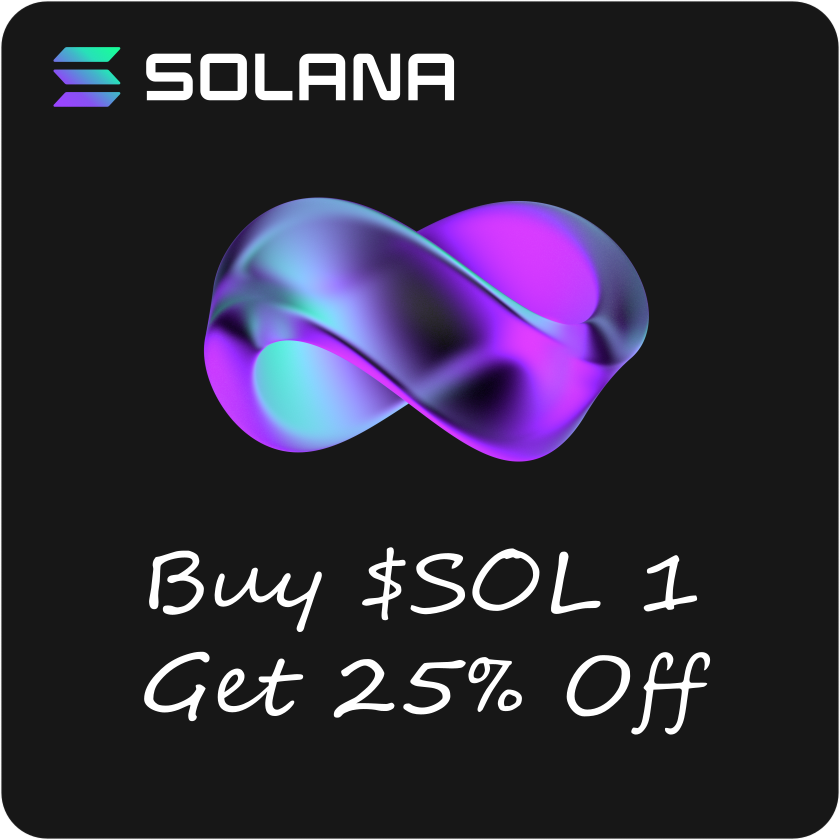
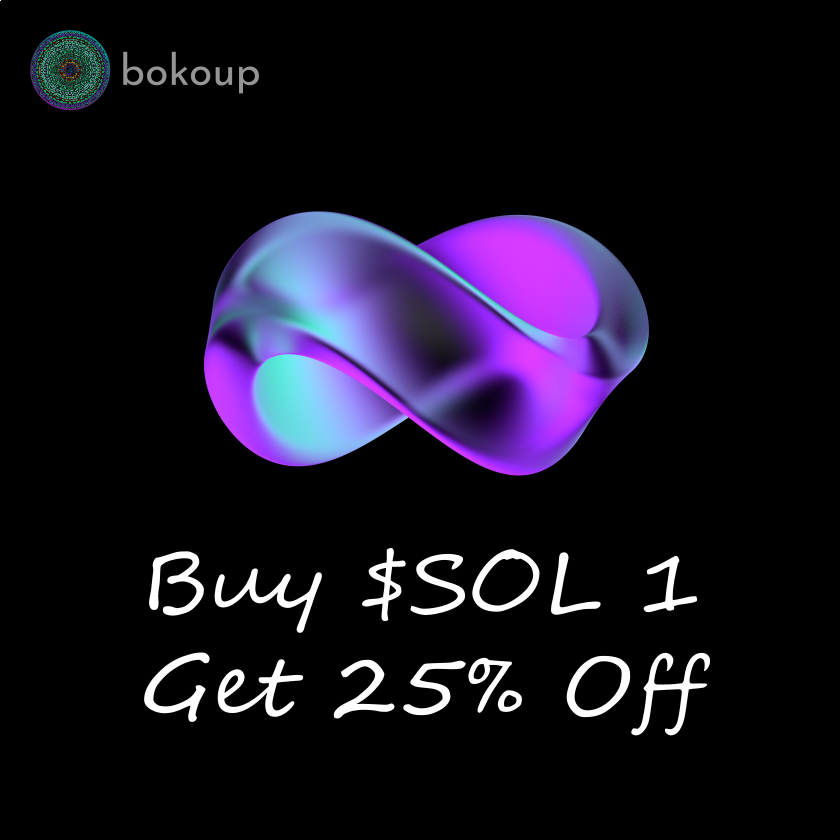
demo app mint tokens

diff --git a/token-metadata/js/test/promo.spec.ts b/token-metadata/js/test/promo.spec.ts
@@ -6,7 +6,7 @@ import chaiAsPromised = require('chai-as-promised');
 chai.use(chaiAsPromised);
 const expect = chai.expect;
 import * as dotenv from 'dotenv';
-import path from "path";
+import path from 'path';
 dotenv.config({ path: path.resolve(__dirname, '../../../demo/.env') });
 
 describe('promo', () => {
@@ -14,10 +14,14 @@ describe('promo', () => {
   // Configure the client to use the local cluster.
   anchor.setProvider(provider);
   const tokenMetadataProgram = new TokenMetadataProgram(provider);
-  const promoOwner = Keypair.fromSecretKey(new Uint8Array(JSON.parse(process.env.REACT_APP_PROMO_OWNER_KEYPAIR!)));
-  const platform = Keypair.fromSecretKey(new Uint8Array(JSON.parse(process.env.REACT_APP_PLATFORM_KEYPAIR!)));
-  console.log("promoOwner: ", promoOwner.publicKey.toString());
-  console.log("platform: ", platform.publicKey.toString());
+  const promoOwner = Keypair.fromSecretKey(
+    new Uint8Array(JSON.parse(process.env.REACT_APP_PROMO_OWNER_KEYPAIR!)),
+  );
+  const platform = Keypair.fromSecretKey(
+    new Uint8Array(JSON.parse(process.env.REACT_APP_PLATFORM_KEYPAIR!)),
+  );
+  console.log('promoOwner: ', promoOwner.publicKey.toString());
+  console.log('platform: ', platform.publicKey.toString());
 
   let adminSettings: PublicKey;
   let adminSettingsAccount: AdminSettings;
@@ -61,53 +65,65 @@ describe('promo', () => {
     );
   });
 
-  it('Creates a promo', async () => {
-    const metadataData: DataV2 = {
+  it('Creates two promos', async () => {
+    const metadataData1: DataV2 = {
       name: 'Promo 1',
       symbol: 'P1',
-      uri: 'https://arweave.net/TPXbiDBtyjHRgMqzo31AoJktNSoZuz_Q14itlMZy_f4',
+      uri: 'https://arweave.net/xBvsyd4Y1z_LZS-WmjikbING1DApVWEfWHRQ2lym0GE',
       sellerFeeBasisPoints: 0,
       creators: null,
       collection: null,
       uses: null,
     };
 
-    const platformStartAccountInfo =
-      await tokenMetadataProgram.program.provider.connection.getAccountInfo(
+    const metadataData2: DataV2 = {
+      name: 'Promo 2',
+      symbol: 'P2',
+      uri: 'https://arweave.net/jCbvPYBPEbJbc4_VBrnWm5X1-_eoSA2XOn96OngRtew',
+      sellerFeeBasisPoints: 0,
+      creators: null,
+      collection: null,
+      uses: null,
+    };
+
+    for (const metadataData of [metadataData1, metadataData2] as DataV2[]) {
+      const platformStartAccountInfo =
+        await tokenMetadataProgram.program.provider.connection.getAccountInfo(
+          adminSettingsAccount.platform,
+        );
+
+      const maxMint = 1_000;
+      const maxRedeem = 500;
+      const expiry = new Date(Date.now() + 1000 * 60 * 60 * 24 * 10);
+
+      promo = await tokenMetadataProgram.createPromo(
         adminSettingsAccount.platform,
+        metadataData,
+        true,
+        maxMint,
+        maxRedeem,
+        expiry,
+        promoOwner,
       );
 
-    const maxMint = 1_000;
-    const maxRedeem = 1;
-    const expiry = new Date(Date.now() + 1000 * 60 * 60 * 24 * 10);
+      promoAccount = (await tokenMetadataProgram.program.account.promo.fetch(promo)) as Promo;
 
-    promo = await tokenMetadataProgram.createPromo(
-      adminSettingsAccount.platform,
-      metadataData,
-      true,
-      maxMint,
-      maxRedeem,
-      expiry,
-      promoOwner,
-    );
+      promoExtended = await tokenMetadataProgram.getPromoExtended({
+        publicKey: promo,
+        ...promoAccount,
+      });
+      console.log('promoExtended: ', promoExtended);
 
-    promoAccount = (await tokenMetadataProgram.program.account.promo.fetch(promo)) as Promo;
-
-    promoExtended = await tokenMetadataProgram.getPromoExtended({
-      publicKey: promo,
-      ...promoAccount,
-    });
-    console.log('promoExtended: ', promoExtended);
-
-    const platformAccountInfo =
-      await tokenMetadataProgram.program.provider.connection.getAccountInfo(
-        adminSettingsAccount.platform,
-      );
-    if (platformStartAccountInfo !== null && platformAccountInfo !== null) {
-      expect(platformAccountInfo.lamports).to.equal(
-        platformStartAccountInfo.lamports + adminSettingsAccount.createPromoLamports.toNumber(),
-        'Platform lamports incorrect.',
-      );
+      const platformAccountInfo =
+        await tokenMetadataProgram.program.provider.connection.getAccountInfo(
+          adminSettingsAccount.platform,
+        );
+      if (platformStartAccountInfo !== null && platformAccountInfo !== null) {
+        expect(platformAccountInfo.lamports).to.equal(
+          platformStartAccountInfo.lamports + adminSettingsAccount.createPromoLamports.toNumber(),
+          'Platform lamports incorrect.',
+        );
+      }
     }
   });
 

diff --git a/demo/src/App.tsx b/demo/src/App.tsx
@@ -3,6 +3,7 @@ import { Theme } from './Theme';
 import { WalletContext } from './components/Wallet';
 import DisconnectIcon from '@mui/icons-material/LinkOff';
 import Toolbar from '@mui/material/Toolbar';
+import Box from '@mui/material/Box';
 import Button from '@mui/material/Button';
 import { WalletDisconnectButton, WalletMultiButton } from '@solana/wallet-adapter-material-ui';
 import React, { FC, Fragment, useContext, useEffect } from 'react';
@@ -13,7 +14,8 @@ import Container from '@mui/material/Container';
 import Grid from '@mui/material/Grid';
 import Typography from '@mui/material/Typography';
 import { Context, Store } from './Store';
-import { PromoCards } from './components/Promos'
+import { PromoCards } from './components/Promos';
+const logo = require('./assets/logo.png');
 
 export const App: FC = () => {
     return (
@@ -32,6 +34,11 @@ export const Content: FC = () => {
     return (
         <Fragment>
             <Toolbar style={{ display: 'flex' }}>
+                <Box sx={{ height: 40, width: 40, mr: 1 }}
+                    component="img"
+                    alt="bokoup logo"
+                    src={logo}
+                />
                 <Typography component="h1" variant="h6" style={{ flexGrow: 1 }}>
                     bokoup
                 </Typography>

diff --git a/demo/src/components/Promos.tsx b/demo/src/components/Promos.tsx
@@ -93,7 +93,7 @@ export const PromoCard: FC<{ mintString: string }> = ({ mintString }) => {
                 {state.walletConnected ?
                     <CardActions sx={{ justifyContent: "center", mb: 2 }}>
                         <Button variant="contained" color="primary" onClick={handleClick}>
-                            LET'S GO!
+                            GET PROMO
                         </Button>
                     </CardActions> : null}
             </Card>

diff --git a/demo/src/index.html b/demo/src/index.html
@@ -6,7 +6,7 @@
     <meta name="viewport" content="width=device-width, initial-scale=1.0">
     <title>bokoup</title>
     <link rel="stylesheet" href="index.css" />
-    <link rel="apple-touch-icon" href="https://solana.com/favicon.ico" />
+    <link rel="apple-touch-icon" href="https://arweave.net/47oYXF2a6izPAaimwCalKShQ_YXqydX3fjm0cjWLbts" />
 </head>
 
 <body>
